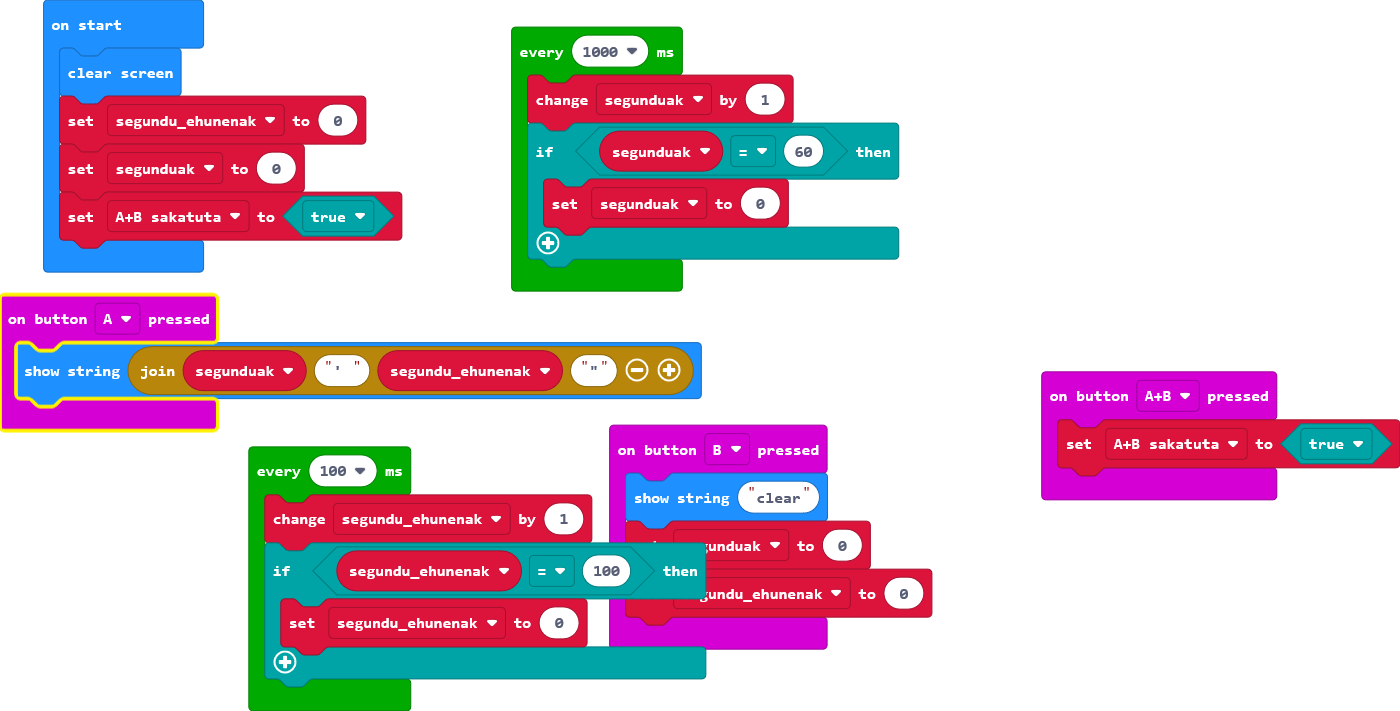
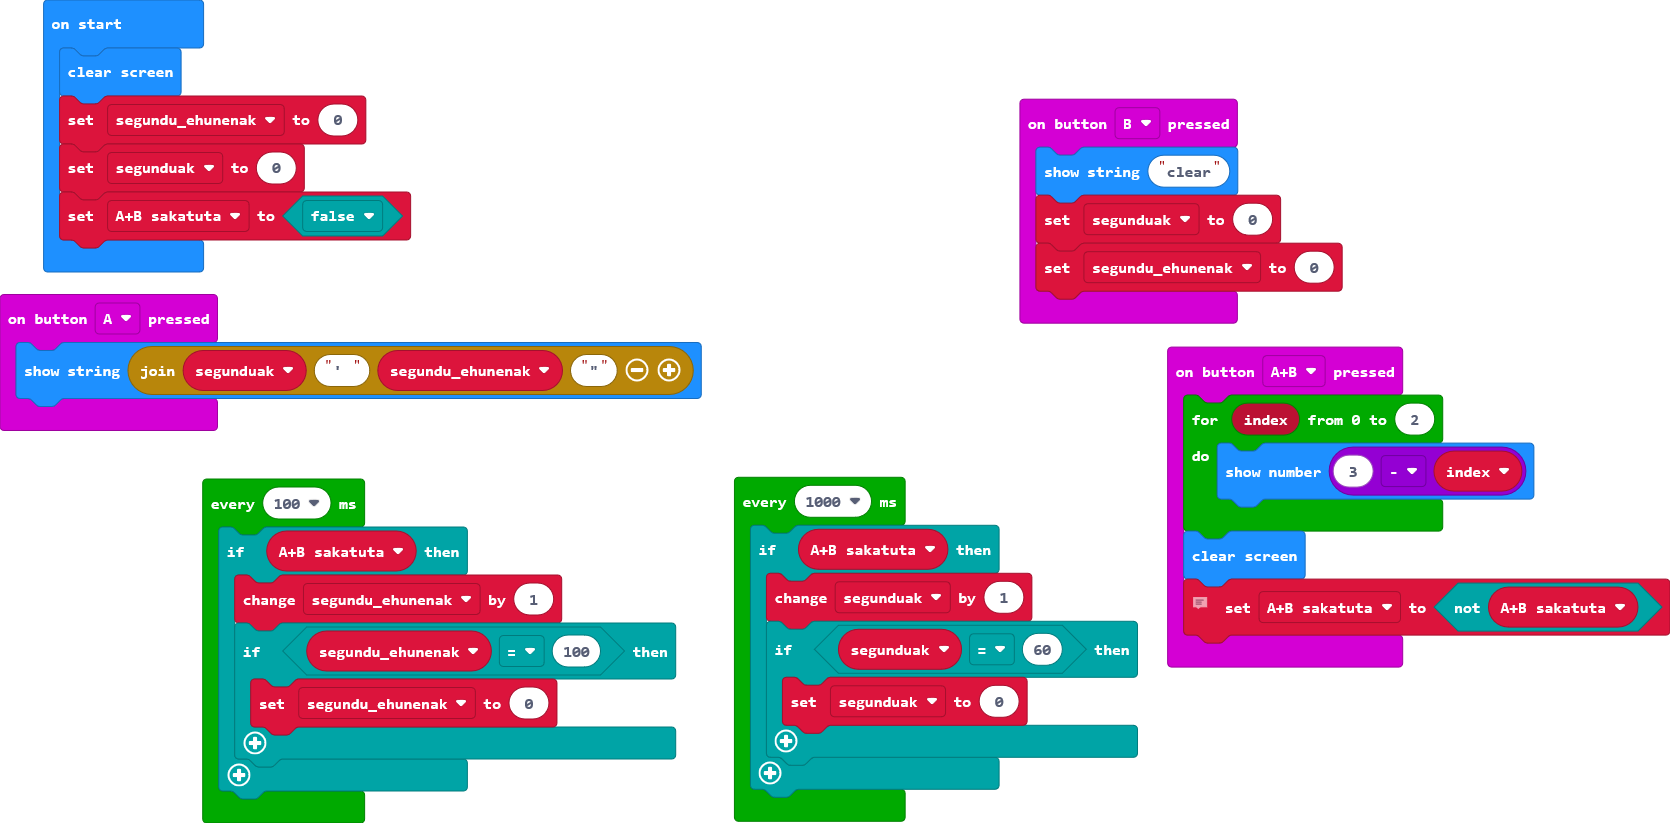
Update main.blocks, main.ts

diff --git a/main.ts b/main.ts
@@ -2,7 +2,11 @@ input.onButtonPressed(Button.A, function () {
     basic.showString("" + segunduak + "' " + segundu_ehunenak + "\"")
 })
 input.onButtonPressed(Button.AB, function () {
-    AB_sakatuta = true
+    for (let index = 0; index <= 2; index++) {
+        basic.showNumber(3 - index)
+    }
+    basic.clearScreen()
+    AB_sakatuta = !(AB_sakatuta)
 })
 input.onButtonPressed(Button.B, function () {
     basic.showString("clear")
@@ -15,16 +19,20 @@ let segundu_ehunenak = 0
 basic.clearScreen()
 segundu_ehunenak = 0
 segunduak = 0
-AB_sakatuta = true
+AB_sakatuta = false
 loops.everyInterval(1000, function () {
-    segunduak += 1
-    if (segunduak == 60) {
-        segunduak = 0
+    if (AB_sakatuta) {
+        segunduak += 1
+        if (segunduak == 60) {
+            segunduak = 0
+        }
     }
 })
 loops.everyInterval(100, function () {
-    segundu_ehunenak += 1
-    if (segundu_ehunenak == 100) {
-        segundu_ehunenak = 0
+    if (AB_sakatuta) {
+        segundu_ehunenak += 1
+        if (segundu_ehunenak == 100) {
+            segundu_ehunenak = 0
+        }
     }
 })
